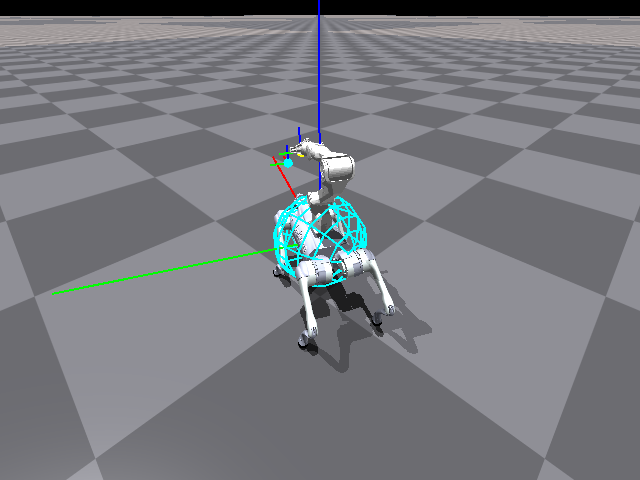
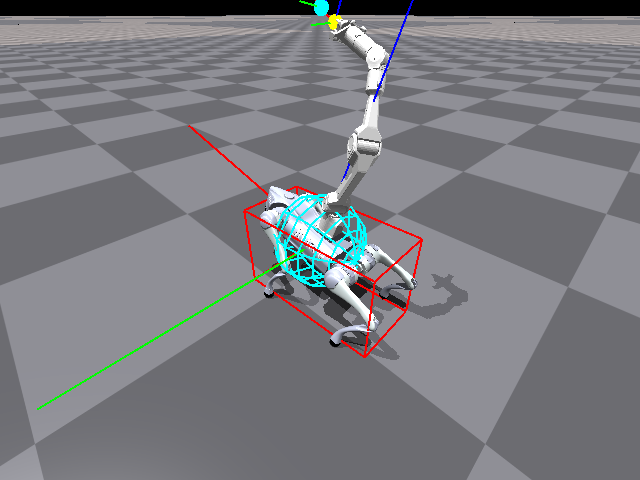
vr

diff --git a/scripts/vr_play/controller.py b/scripts/vr_play/controller.py
@@ -8,12 +8,21 @@ except ImportError:
     print("Please install openvr: pip install openvr")
     sys.exit(1)
 
+
+# OpenVR frame: +x right, +y up, +z toward the user.
+# Robot control frame: +x forward, +y left, +z up.
+VR_TO_ROBOT_BASIS = np.array([
+    [0.0, 0.0, -1.0],
+    [-1.0, 0.0, 0.0],
+    [0.0, 1.0, 0.0],
+], dtype=np.float32)
+
 class Controller:
     def __init__(self):
         print("Initializing OpenVR System...")
         try:
             # 初始化 SteamVR 
-            self.vr_system = openvr.init(openvr.VRApplication_Background)
+            self.vr_system = openvr.init(openvr.VRApplication_Scene)
         except openvr.OpenVRError as e:
             print(f"Failed to initialize OpenVR: {e}")
             sys.exit(1)
@@ -23,14 +32,33 @@ class Controller:
     def _get_button_state(self, controller_state, button_id):
         return (controller_state.ulButtonPressed & (1 << button_id)) != 0
 
+    @staticmethod
+    def _matrix_to_rpy(rot):
+        pitch = np.arcsin(np.clip(-rot[2, 0], -1.0, 1.0))
+        if np.abs(rot[2, 0]) < 0.999999:
+            roll = np.arctan2(rot[2, 1], rot[2, 2])
+            yaw = np.arctan2(rot[1, 0], rot[0, 0])
+        else:
+            roll = 0.0
+            yaw = np.arctan2(-rot[0, 1], rot[1, 1])
+        return roll, pitch, yaw
+
+    @staticmethod
+    def _vr_pose_to_robot(m):
+        rot_vr = np.array([[m[r][c] for c in range(3)] for r in range(3)], dtype=np.float32)
+        pos_vr = np.array([m[0][3], m[1][3], m[2][3]], dtype=np.float32)
+
+        pos_robot = VR_TO_ROBOT_BASIS @ pos_vr
+        rot_robot = VR_TO_ROBOT_BASIS @ rot_vr @ VR_TO_ROBOT_BASIS.T
+        roll, pitch, yaw = Controller._matrix_to_rpy(rot_robot)
+        return pos_robot, (roll, pitch, yaw)
+
     def get_action(self):
         """
-        生成器，不断产出大小为 20 的 float 数组并 yield 出去，结构：
-        [rx, ry, rz, x, y, z, grip] (右/左，依原代码解析器可能左侧映射在前1-7，或是按照左右反着赋值的，这里直接写出14位)
-        由于原始解析 parser_action 中:
-        1-7 映射为 Left/Right 的姿态和 Trigger
-        8-14 映射为另一只手的姿态和 Trigger
-        14-19 分别对应 A(Right), B(Right), X(Left), Y(Left), joystick_x, joystick_y
+        生成器，不断产出大小为 20 的 float 数组并 yield 出去，对齐 remote_pub.py 的 parser_action 解析逻辑：
+        [pitch, yaw, roll, y, z, x, trigger] (左手 0-6)
+        [pitch, yaw, roll, y, z, x, trigger] (右手 7-13)
+        14:A(Right), 15:B(Right), 16:X(Left), 17:Y(Left), 18:joystick_x, 19:joystick_y
         """
         while True:
             # 申请长度20的数组，对应原有的action解包结构
@@ -61,63 +89,50 @@ class Controller:
 
                 # 提取矩阵姿态
                 m = pose.mDeviceToAbsoluteTracking
-                # xyz 位置
-                x, y, z = m[0][3], m[1][3], m[2][3]
-                
-                # 计算 RPY (Roll Pitch Yaw) 从旋转矩阵
-                pitch = np.arcsin(max(-1.0, min(1.0, m[2][0])))
-                if np.abs(m[2][0]) < 0.999999: # 没遇到万向锁
-                    roll = np.arctan2(-m[2][1], m[2][2])
-                    yaw = np.arctan2(-m[1][0], m[0][0])
-                else: 
-                    roll = 0.0
-                    yaw = np.arctan2(m[0][1], m[1][1])
+                pos_robot, (roll_robot, pitch_robot, yaw_robot) = self._vr_pose_to_robot(m)
                 
                 # 读取扳机/抓手的值 (Axis 1 is typically trigger)
                 trigger = controller_state.rAxis[1].x 
 
-                # 判断左右并赋值给对应数组切片
-                # 提示：从 origin parser 来看：
-                # count[0] 是 pitch, count[1] 是 yaw, count[2] 是 roll, count[3]是y, count[4]是z, count[5]是x
-                
+                # 严格对齐 remote_pub.py 的解析顺序：
+                # left: [pitch, yaw, roll, y, z, x, trigger] (0-6)
+                # right: [pitch, yaw, roll, y, z, x, trigger] (7-13)
                 if role == openvr.TrackedControllerRole_LeftHand:
-                    # action[0:7]
-                    action[0] = pitch
-                    action[1] = yaw
-                    action[2] = roll
-                    action[3] = y
-                    action[4] = z
-                    action[5] = x
+                    # 0:pitch, 1:yaw, 2:roll, 3:y, 4:z, 5:x, 6:trigger
+                    # Preserve the historical wire format expected by remote_pub.py.
+                    action[0] = -pitch_robot
+                    action[1] = yaw_robot
+                    action[2] = -roll_robot
+                    action[3] = -pos_robot[1]
+                    action[4] = pos_robot[2]
+                    action[5] = -pos_robot[0]
                     action[6] = trigger
                     
-                    # 获取 X, Y 按键
-                    # OpenVR 中通常 X 是 7 号(A按键的变体或特定的SteamVR键), Y 是 1 号(或特定的)
-                    # 这个对应关系你需要自己在 SteamVR 输入绑定中微调
-                    # 此处用标准的 mask 测试
-                    x_btn = self._get_button_state(controller_state, openvr.k_EButton_A)
-                    y_btn = self._get_button_state(controller_state, openvr.k_EButton_ApplicationMenu)
+                    # 按键映射：16:X(Left), 17:Y(Left)
+                    x_btn = self._get_button_state(controller_state, openvr.k_EButton_A)  # X键
+                    y_btn = self._get_button_state(controller_state, openvr.k_EButton_ApplicationMenu)  # Y键
                     action[16] = 1.0 if x_btn else 0.0
                     action[17] = 1.0 if y_btn else 0.0
                     
-                    # 获取 Joystick 数据 (一般 Axis 0)
+                    # 摇杆数据：18:joystick_x, 19:joystick_y (Axis 0)
                     action[18] = controller_state.rAxis[0].x
                     action[19] = controller_state.rAxis[0].y
                     
                     left_handled = True
 
                 elif role == openvr.TrackedControllerRole_RightHand:
-                    # action[7:14]
-                    action[7] = pitch
-                    action[8] = yaw
-                    action[9] = roll
-                    action[10] = y
-                    action[11] = z
-                    action[12] = x
+                    # 7:pitch, 8:yaw, 9:roll, 10:y, 11:z, 12:x, 13:trigger
+                    action[7] = -pitch_robot
+                    action[8] = yaw_robot
+                    action[9] = -roll_robot
+                    action[10] = -pos_robot[1]
+                    action[11] = pos_robot[2]
+                    action[12] = -pos_robot[0]
                     action[13] = trigger
                     
-                    # 获取 A, B 按键
-                    a_btn = self._get_button_state(controller_state, openvr.k_EButton_A)
-                    b_btn = self._get_button_state(controller_state, openvr.k_EButton_ApplicationMenu)
+                    # 按键映射：14:A(Right), 15:B(Right)
+                    a_btn = self._get_button_state(controller_state, openvr.k_EButton_A)  # A键
+                    b_btn = self._get_button_state(controller_state, openvr.k_EButton_ApplicationMenu)  # B键
                     action[14] = 1.0 if a_btn else 0.0
                     action[15] = 1.0 if b_btn else 0.0
                     

diff --git a/scripts/vr_play/play_by_remote.py b/scripts/vr_play/play_by_remote.py
@@ -252,6 +252,23 @@ def format_remote_pose_log(data, dt_ms):
         f"roll={data[3]:.6f}, pitch={data[4]:.6f}, yaw={data[5]:.6f}"
     )
 
+
+def lpy_to_local_xyz_np(lpy):
+    l, p, yaw = lpy
+    x = l * np.cos(p) * np.cos(yaw)
+    y_local = l * np.cos(p) * np.sin(yaw)
+    z = l * np.sin(p)
+    return np.array([x, y_local, z], dtype=np.float64)
+
+
+def local_xyz_to_lpy_np(xyz):
+    x, y_local, z = xyz
+    l = np.sqrt(x ** 2 + y_local ** 2 + z ** 2)
+    horiz = np.sqrt(x ** 2 + y_local ** 2)
+    p = np.arctan2(z, horiz)
+    yaw = np.arctan2(y_local, x)
+    return np.array([l, p, yaw], dtype=np.float64)
+
 def play_go1(args):
     
     signal.signal(signal.SIGINT, signal_handler)
@@ -335,6 +352,10 @@ def play_go1(args):
     env.env.update_arm_commands()
 
     default_cmd = np.array([l_cmd, p_cmd, y_cmd, roll_cmd, pitch_cmd, yaw_cmd], dtype=np.float64)
+    home_lpy = default_cmd[:3].copy()
+    home_xyz = lpy_to_local_xyz_np(home_lpy)
+    arm_lpy_low = np.array([cfg.arm.commands.l[0], cfg.arm.commands.p[0], cfg.arm.commands.y[0]], dtype=np.float64)
+    arm_lpy_high = np.array([cfg.arm.commands.l[1], cfg.arm.commands.p[1], cfg.arm.commands.y[1]], dtype=np.float64)
     lcm_stale_timeout_s = 0.3
     
     obs = env.get_arm_observations()
@@ -342,7 +363,7 @@ def play_go1(args):
     last_arm_actions = None
     last_pitch_roll = None
     last_remote_pose_raw = None
-    filtered_remote_cmd = None
+    filtered_remote_pose = None
     last_logged_lcm_seq = 0
     last_logged_lcm_time = None
     filter_rate = 0.8
@@ -374,40 +395,37 @@ def play_go1(args):
                     )
                 last_remote_pose_raw = current_remote_pose
 
-                delta_x1, delta_y1, delta_z1, delta_roll, delta_pitch, delta_yaw = delta_xyzrpy
-                delta_x1 += 0.3
-                delta_l = np.sqrt(delta_x1**2 + delta_y1**2 + delta_z1**2)
-                delta_y = np.arctan2(delta_y1, delta_x1)
-                delta_p = np.arcsin(delta_z1 / delta_l) if delta_l != 0 else 0
-
-                cmd_l = min(max(delta_l + 0.2, 0.3), 0.8)  # 0.3 ~ 0.8
-                cmd_p = min(max(delta_p + 0.3, -np.pi/3), np.pi/3)   # -pi/3 ~ pi/3
-                cmd_y = min(max(delta_y, -np.pi/2), np.pi/2)  # -pi/2 ~ pi/2
-
+                delta_pos = current_remote_pose[:3]
+                delta_roll, delta_pitch, delta_yaw = current_remote_pose[3:6]
+                target_xyz = home_xyz + delta_pos
                 cmd_alpha = min(max(delta_roll, -np.pi * 0.45), np.pi * 0.45)
                 cmd_beta = min(max(delta_pitch, -1.5), 1.5)
                 cmd_gamma = min(max(delta_yaw, -1.4), 1.4)
                 cmd_alpha, cmd_beta, cmd_gamma = rpy_to_abg(cmd_alpha, cmd_beta, cmd_gamma)
 
-                raw_remote_cmd = np.array([cmd_l, cmd_p, cmd_y, cmd_alpha, cmd_beta, cmd_gamma], dtype=np.float64)
-                if filtered_remote_cmd is None:
-                    filtered_remote_cmd = raw_remote_cmd.copy()
+                raw_remote_pose_cmd = np.array(
+                    [target_xyz[0], target_xyz[1], target_xyz[2], cmd_alpha, cmd_beta, cmd_gamma],
+                    dtype=np.float64,
+                )
+                if filtered_remote_pose is None:
+                    filtered_remote_pose = raw_remote_pose_cmd.copy()
                 else:
-                    filtered_remote_cmd = (
-                        REMOTE_CMD_FILTER_RATE * filtered_remote_cmd
-                        + (1.0 - REMOTE_CMD_FILTER_RATE) * raw_remote_cmd
+                    filtered_remote_pose = (
+                        REMOTE_CMD_FILTER_RATE * filtered_remote_pose
+                        + (1.0 - REMOTE_CMD_FILTER_RATE) * raw_remote_pose_cmd
                     )
 
-                env.commands_arm[:, 0] = filtered_remote_cmd[0]
-                env.commands_arm[:, 1] = filtered_remote_cmd[1]
-                env.commands_arm[:, 2] = filtered_remote_cmd[2]
-                env.commands_arm[:, 3] = filtered_remote_cmd[3]
-                env.commands_arm[:, 4] = filtered_remote_cmd[4]
-                env.commands_arm[:, 5] = filtered_remote_cmd[5]
+                filtered_lpy = np.clip(local_xyz_to_lpy_np(filtered_remote_pose[:3]), arm_lpy_low, arm_lpy_high)
+                env.commands_arm[:, 0] = filtered_lpy[0]
+                env.commands_arm[:, 1] = filtered_lpy[1]
+                env.commands_arm[:, 2] = filtered_lpy[2]
+                env.commands_arm[:, 3] = filtered_remote_pose[3]
+                env.commands_arm[:, 4] = filtered_remote_pose[4]
+                env.commands_arm[:, 5] = filtered_remote_pose[5]
             else:
                 # Keep the last commanded pose during brief remote dropouts
                 # instead of snapping back to the default command.
-                if filtered_remote_cmd is None:
+                if filtered_remote_pose is None:
                     env.commands_arm[:, 0] = default_cmd[0]
                     env.commands_arm[:, 1] = default_cmd[1]
                     env.commands_arm[:, 2] = default_cmd[2]

diff --git a/scripts/vr_play/vr_streaming.py b/scripts/vr_play/vr_streaming.py
@@ -1,6 +1,6 @@
 import numpy as np
 
-from sock import SocketClient
+# from sock import SocketClient
 from controller import Controller
 import zmq
 import signal
@@ -8,8 +8,8 @@ import pickle
 import loguru
 
 # NOTE This is the ip and port of the pc host connected to vr
-GLOBAL_IP = "192.168.12.198"
-GLOBAL_PORT = "34565"
+GLOBAL_IP = "192.168.1.109"
+GLOBAL_PORT = "34567"
 
 
 logger = loguru.logger
@@ -19,7 +19,7 @@ def main():
     context = zmq.Context()
     sock = context.socket(zmq.PUSH)
     sock.setsockopt(zmq.SNDHWM, 1)
-    sock.bind(f"tcp://*:{GLOBAL_PORT}")
+    sock.bind(f"tcp://{GLOBAL_IP}:{GLOBAL_PORT}")
 
     def sig_handler(sig, frame):
         logger.info("Exit")
@@ -29,12 +29,18 @@ def main():
 
     signal.signal(signal.SIGINT, sig_handler)
 
+    print("Waiting for VR connection...")
+
     controller = Controller()
+    print("VR connection established. Streaming data...")
     actions = controller.get_action()
+    print("Streaming data from VR controllers...")
     for idx, data in enumerate(actions):
         bin_data = pickle.dumps(data)
+        print(f"Sending data packet {idx+1}: {data}")
         sock.send(bin_data)
         logger.info(f"Sent data packet {idx+1}")
+        print(f"Sent data packet {idx+1}: {data}")
 
 
 

diff --git a/scripts/vr_play/remote_pub.py b/scripts/vr_play/remote_pub.py
@@ -14,7 +14,7 @@ sys.path.append("../")
 from go1_gym.lcm_types.arm_actions_t import arm_actions_t
  
 # NOTE This is the ip and port of the pc host connected to vr
-GLOBAL_IP = "192.168.1.114"
+GLOBAL_IP = "192.168.1.109"
 GLOBAL_PORT = "34567"
 lcm_node = lcm.LCM("udpm://239.255.76.67:7136?ttl=255")
 
